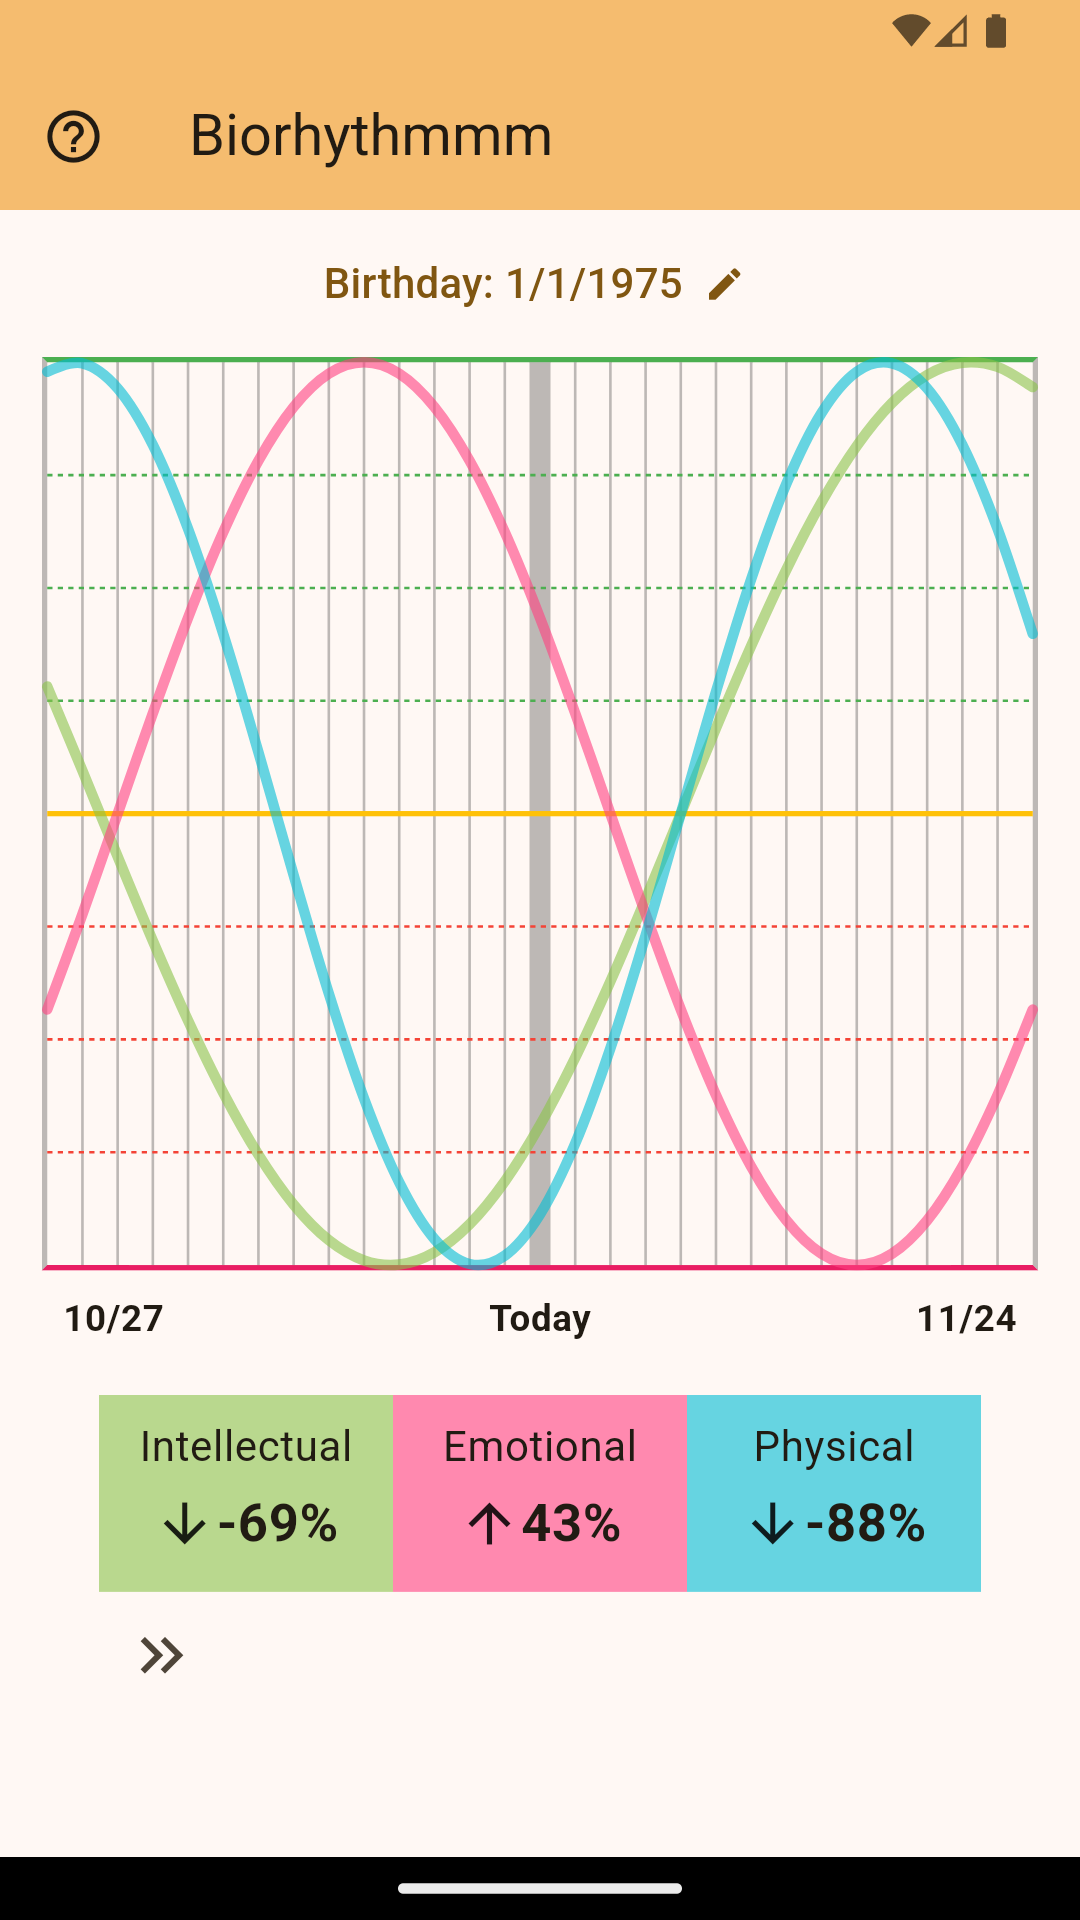
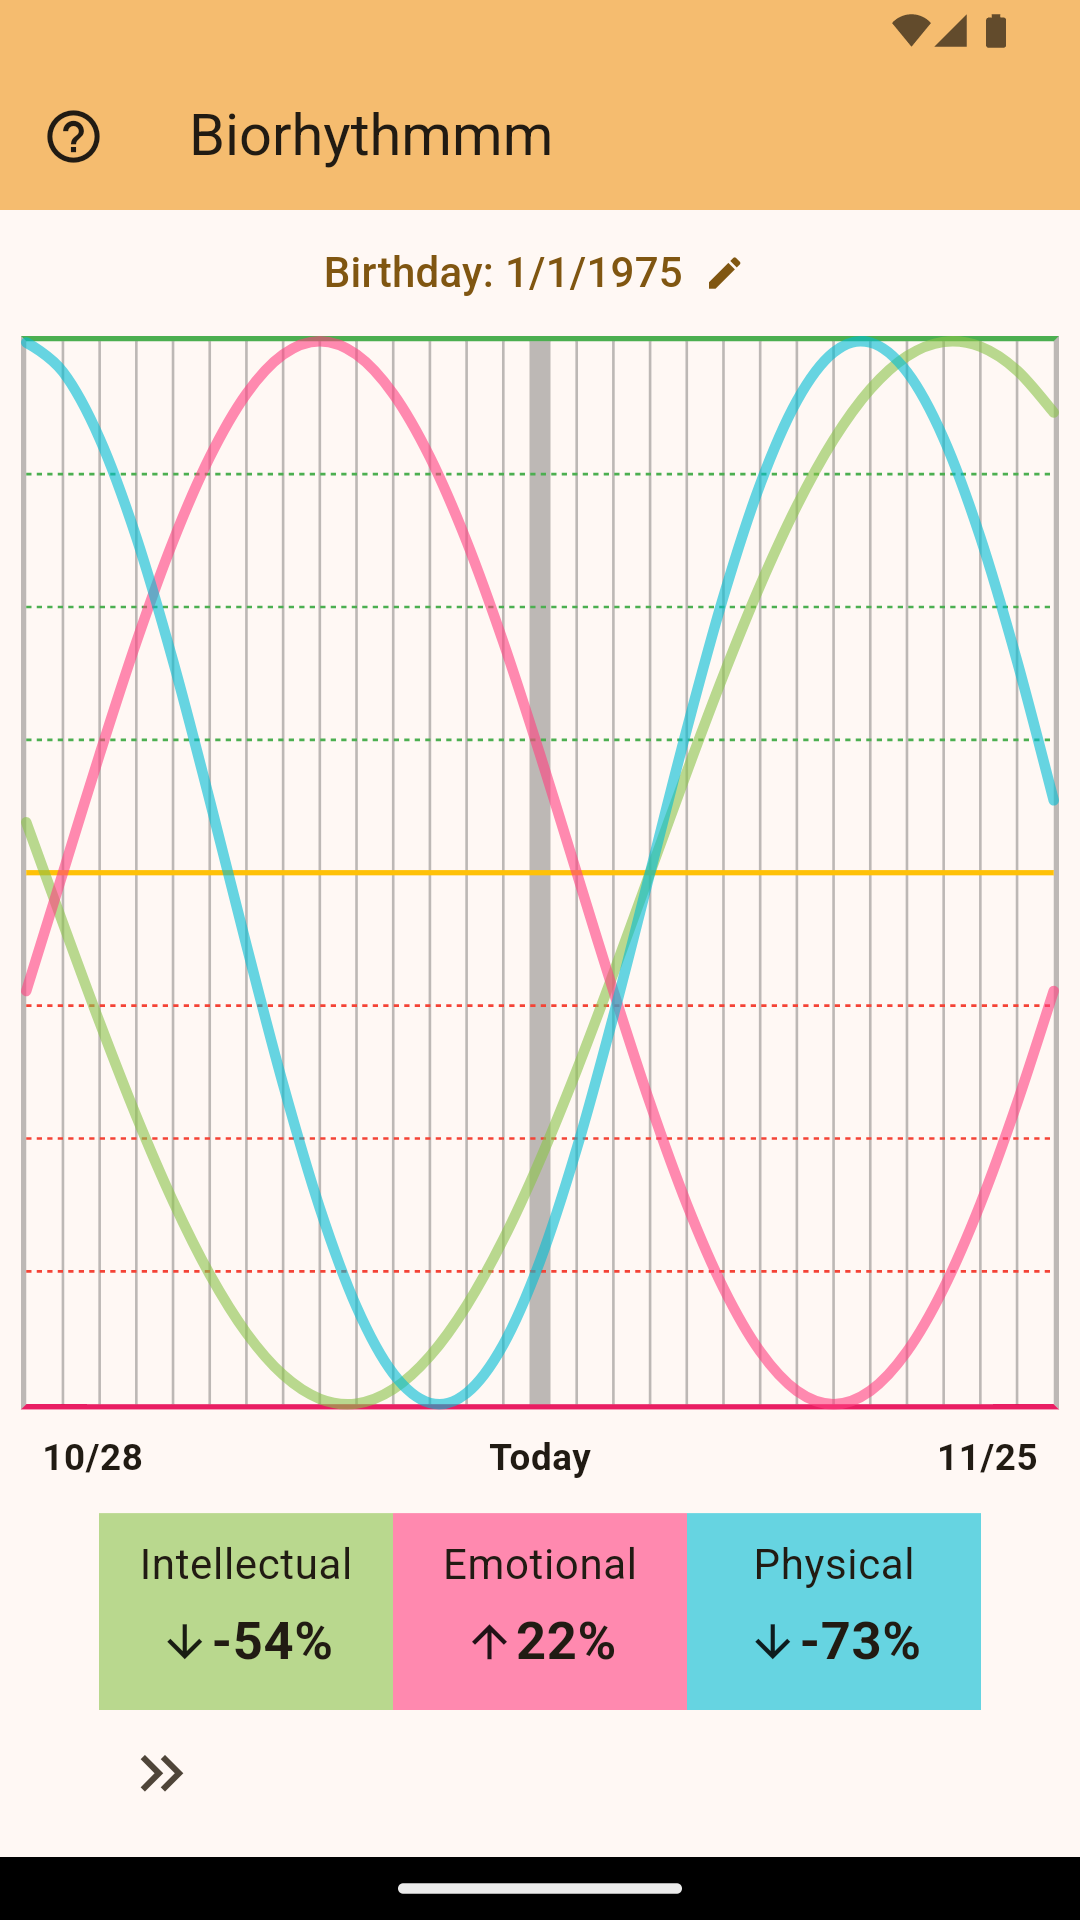
improve screen size responsiveness

Changed region(s): [[0.0, 0.125, 1.0, 0.9375]]

diff --git a/lib/widgets/biorhythm_chart.dart b/lib/widgets/biorhythm_chart.dart
@@ -85,40 +85,33 @@ class BiorhythmChartState extends State<BiorhythmChart> {
       crossAxisAlignment: CrossAxisAlignment.stretch,
       children: <Widget>[
         // Biorhythm chart
-        Padding(
-          padding: const EdgeInsets.symmetric(horizontal: 16),
-          child: AspectRatio(
-            aspectRatio: 1,
-            child: LineChart(
-              biorhythmData,
-              duration: const Duration(milliseconds: 250),
-            ),
+        Expanded(
+          child: LineChart(
+            biorhythmData,
+            duration: const Duration(milliseconds: 250),
           ),
         ),
         Padding(
-          padding: const EdgeInsets.all(16),
+          padding: const EdgeInsets.all(8),
           child: Center(
-            child: AnimatedSize(
-              duration: const Duration(milliseconds: 150),
-              child: Wrap(
-                crossAxisAlignment: WrapCrossAlignment.center,
-                children: [
-                  // Biorhythm percentages
-                  for (int i = 0; i < _chartPoints.length; i++)
-                    biorhythmPercentBox(
-                      biorhythm: biorhythms[i],
-                      point: _chartPoints[i],
-                    ),
-                  // Toggle extra biorhythms
-                  IconButton(
-                    onPressed: toggleExtraPoints,
-                    icon: _showExtraPoints
-                        ? Icon(Icons.keyboard_double_arrow_left)
-                        : Icon(Icons.keyboard_double_arrow_right),
-                    iconSize: 28,
+            child: Wrap(
+              crossAxisAlignment: WrapCrossAlignment.center,
+              children: [
+                // Biorhythm percentages
+                for (int i = 0; i < _chartPoints.length; i++)
+                  biorhythmPercentBox(
+                    biorhythm: biorhythms[i],
+                    point: _chartPoints[i],
                   ),
-                ],
-              ),
+                // Toggle extra biorhythms
+                IconButton(
+                  onPressed: toggleExtraPoints,
+                  icon: _showExtraPoints
+                      ? Icon(Icons.keyboard_double_arrow_left)
+                      : Icon(Icons.keyboard_double_arrow_right),
+                  iconSize: 28,
+                ),
+              ],
             ),
           ),
         ),
@@ -339,8 +332,14 @@ class BiorhythmChartState extends State<BiorhythmChart> {
                 mainAxisAlignment: MainAxisAlignment.center,
                 mainAxisSize: MainAxisSize.min,
                 children: [
-                  Icon(getPhaseIcon(point)),
-                  Text(shortPercent(point), style: pointText),
+                  Icon(
+                    getPhaseIcon(point),
+                    size: pointText.fontSize!,
+                  ),
+                  Text(
+                    shortPercent(point),
+                    style: pointText,
+                  ),
                 ],
               ),
             ),

diff --git a/lib/widgets/home_page.dart b/lib/widgets/home_page.dart
@@ -63,25 +63,27 @@ class _HomePageState extends State<HomePage> {
           onPressed: showAboutDialog,
         ),
       ),
-      body: SingleChildScrollView(
+      body: SafeArea(
         child: Column(
           mainAxisAlignment: MainAxisAlignment.start,
           children: <Widget>[
             // Birthday setting
-            Padding(
-              padding: const EdgeInsets.all(4),
-              child: TextButton.icon(
-                onPressed: () => adaptiveBirthdayPicker(context),
-                label: Text(
-                  '${Str.birthdayLabel} ${longDate(_birthday)}',
-                  style: labelText,
-                ),
-                icon: Icon(Icons.edit, size: labelText.fontSize),
-                iconAlignment: IconAlignment.end,
+            TextButton.icon(
+              onPressed: () => adaptiveBirthdayPicker(context),
+              label: Text(
+                '${Str.birthdayLabel} ${longDate(_birthday)}',
+                style: labelText,
               ),
+              icon: Icon(Icons.edit, size: labelText.fontSize),
+              iconAlignment: IconAlignment.end,
             ),
             // Chart
-            BiorhythmChart(birthday: _birthday),
+            Expanded(
+              child: Padding(
+                padding: const EdgeInsets.symmetric(horizontal: 8),
+                child: BiorhythmChart(birthday: _birthday),
+              ),
+            ),
           ],
         ),
       ),
@@ -123,7 +125,7 @@ class _HomePageState extends State<HomePage> {
       context: context,
       builder: (_) {
         return SizedBox(
-          height: MediaQuery.of(context).copyWith().size.height / 3,
+          height: MediaQuery.of(context).size.height / 3,
           child: Stack(
             children: [
               // Help text overlay
